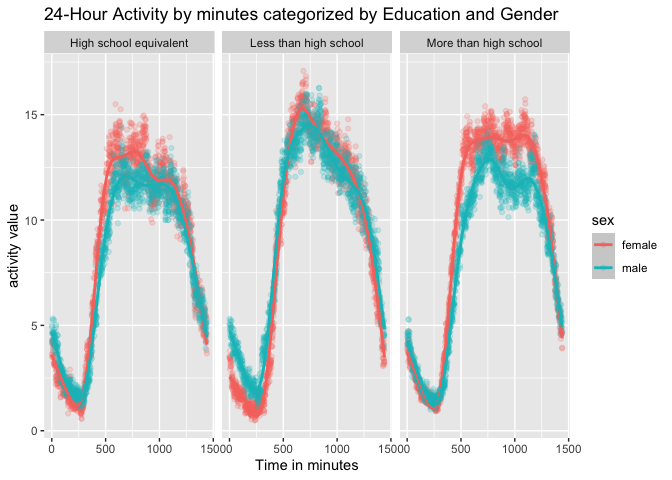
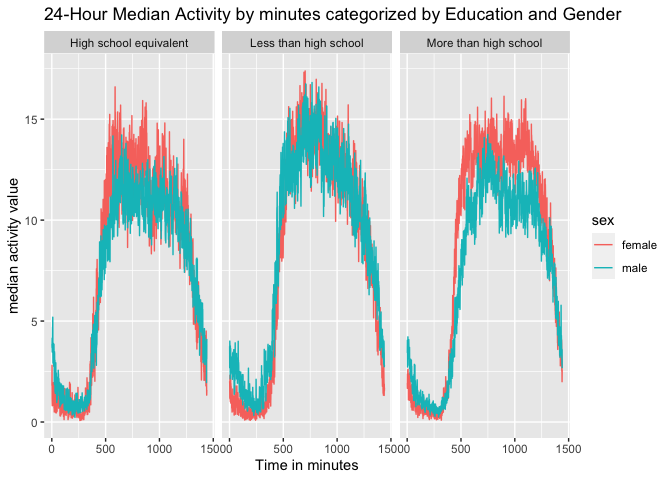
added dot plot for Q3

diff --git a/p8105_hw3_yd2739.md b/p8105_hw3_yd2739.md
@@ -543,37 +543,61 @@ grouped_24hr_avg_plot
 ![](p8105_hw3_yd2739_files/figure-gfm/unnamed-chunk-21-1.png)<!-- -->
 
 ``` r
-grouped_24hr_smooth_plot = merged_acc_info_df|>
+grouped_24hr_median_plot = merged_acc_info_df|>
   pivot_longer(cols = starts_with("min"), names_to = "time", values_to = "time_movement")|>
   mutate(
     time = substring(time, 4), 
     time= as.numeric(time)
   )|>
   group_by(education, sex, time)|>
-  summarise(mean_activity = mean(time_movement))|>
-  ggplot(aes(x = time, y = mean_activity, color = sex))+
-  geom_point(alpha = .2)+
-  geom_smooth()+
+  summarise(median_activity = median(time_movement))|>
+  ggplot(aes(x = time, y = median_activity, color = sex))+
+  geom_line()+
   facet_grid(. ~ education)+
-  labs(title = "24-Hour Activity by minutes categorized by Education and Gender", 
+  labs(title = "24-Hour Median Activity by minutes categorized by Education and Gender", 
        x = "Time in minutes",
-       y = "activity value")
+       y = "median activity value")
 ```
 
     ## `summarise()` has grouped output by 'education', 'sex'. You can override using
     ## the `.groups` argument.
 
 ``` r
+grouped_24hr_median_plot
+```
+
+![](p8105_hw3_yd2739_files/figure-gfm/unnamed-chunk-22-1.png)<!-- -->
+
+``` r
+grouped_24hr_smooth_plot = merged_acc_info_df|>
+  pivot_longer(cols = starts_with("min"), names_to = "time", values_to = "time_movement")|>
+  mutate(
+    time = substring(time, 4), 
+    time= as.numeric(time)
+  )|>
+  group_by(education, sex)|>
+  ggplot(aes(x = time, y = time_movement, color = sex))+
+  geom_point(alpha = .2)+
+  geom_smooth()+
+  facet_grid(. ~ education)+
+  labs(title = "24-Hour Activity by minutes categorized by Education and Gender", 
+       x = "Time in minutes",
+       y = "Mean activity value")
 grouped_24hr_smooth_plot
 ```
 
     ## `geom_smooth()` using method = 'gam' and formula = 'y ~ s(x, bs = "cs")'
 
-![](p8105_hw3_yd2739_files/figure-gfm/unnamed-chunk-22-1.png)<!-- -->
+![](p8105_hw3_yd2739_files/figure-gfm/unnamed-chunk-23-1.png)<!-- -->
 
-We could observe from the graph that for people have more than high
-school degree, average movement for female is higher than average
-movement for male.A All people shows low movement from 0 to 250min, this
-is probably they are sleeping. While ther is a peak of movement for
-people who are less than high school, the average movement curve is
-relatively smoother for high school or more than high school people
+Amoung three plot choices, dot plot seems hard to interpret. From the
+mean activity line plot and the median activity line plot, we could
+observe from the graph that for people have more than high school
+degree, average activity for female is higher than average activity for
+male. For people in groups of `less than high school`, the mean activity
+and median activity show high highly coincident across sex, while this
+is not observed in other education level. A All people shows low
+activity from 0 to 250min, this is probably they are sleeping. While
+ther is a peak of activity for people who are less than high school, the
+average activity curve is relatively smoother for high school or more
+than high school people
